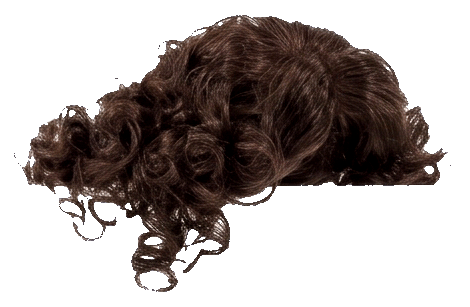
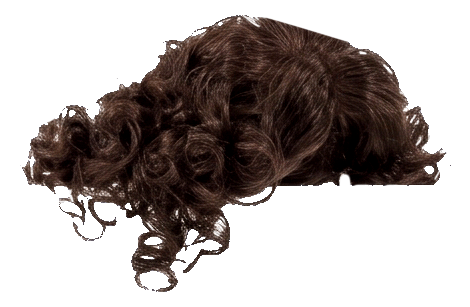
style(home): 优化展架物料缩放交互与校准选题空间归属排序

diff --git a/src/data/topics/catalog.js b/src/data/topics/catalog.js
@@ -2,11 +2,14 @@
 // 数组顺序即课程选题的业务排序。
 export const topicCatalog = [
   { label: '客厅', roomId: 'room1', colorToken: 'var(--home-spot-03)', sortOrder: 1 },
+  { label: '码头', roomId: 'room1', colorToken: 'var(--home-spot-15)', sortOrder: 15 },
   { label: '橱窗', roomId: 'room2', colorToken: 'var(--home-spot-02)', sortOrder: 2 },
   { label: '隧道', roomId: 'room2', colorToken: 'var(--home-spot-14)', sortOrder: 3 },
   { label: '桌面', roomId: 'room3', colorToken: 'var(--home-spot-01)', sortOrder: 4 },
-  { label: '暗房', roomId: 'room4', colorToken: 'var(--home-spot-04)', sortOrder: 5 },
   { label: '蓄水池', roomId: 'room3', colorToken: 'var(--home-spot-05)', sortOrder: 6 },
+  { label: '暗房', roomId: 'room4', colorToken: 'var(--home-spot-04)', sortOrder: 5 },
+  { label: '影院', roomId: 'room4', colorToken: 'var(--home-spot-16)', sortOrder: 16 },
+  { label: '工厂', roomId: 'room5', colorToken: 'var(--home-spot-17)', sortOrder: 17 },
   { label: '田', roomId: 'room6', colorToken: 'var(--home-spot-07)', sortOrder: 7 },
   { label: '黄页', roomId: 'room7', colorToken: 'var(--home-spot-06)', sortOrder: 8 },
   { label: '晒场', roomId: 'room8', colorToken: 'var(--home-spot-08)', sortOrder: 9 },
@@ -15,9 +18,6 @@ export const topicCatalog = [
   { label: '谷仓', roomId: 'room11', colorToken: 'var(--home-spot-11)', sortOrder: 12 },
   { label: '楼梯间', roomId: 'room11', colorToken: 'var(--home-spot-12)', sortOrder: 13 },
   { label: '监控室', roomId: 'room12', colorToken: 'var(--home-spot-13)', sortOrder: 14 },
-  { label: '码头', roomId: 'room1', colorToken: 'var(--home-spot-15)', sortOrder: 15 },
-  { label: '影院', roomId: 'room2', colorToken: 'var(--home-spot-16)', sortOrder: 16 },
-  { label: '工厂', roomId: 'room3', colorToken: 'var(--home-spot-17)', sortOrder: 17 },
 ]
 
 export const topicColors = Object.fromEntries(

diff --git a/src/components/home/ShelfShowcase.vue b/src/components/home/ShelfShowcase.vue
@@ -23,7 +23,7 @@
           v-for="(item, i) in items"
           :key="item.name"
           class="item"
-          :class="{ 'item--active': active === i }"
+          :class="{ 'item--active': active === i, 'item--no-scale': item.name === '棋子' }"
           role="button"
           tabindex="0"
           :aria-label="`查看${item.label}策展项目`"
@@ -175,6 +175,12 @@ const items = [
 .item--active .item-image {
   opacity: 1;
   transform: scale(1.02);
+}
+
+/* 棋子的透明叠图边缘较紧，放大会露出底图，因此仅显示原尺寸叠图。 */
+.item--no-scale:hover .item-image,
+.item--no-scale.item--active .item-image {
+  transform: scale(1);
 }
 
 .item:focus-visible .item-hotspot {
